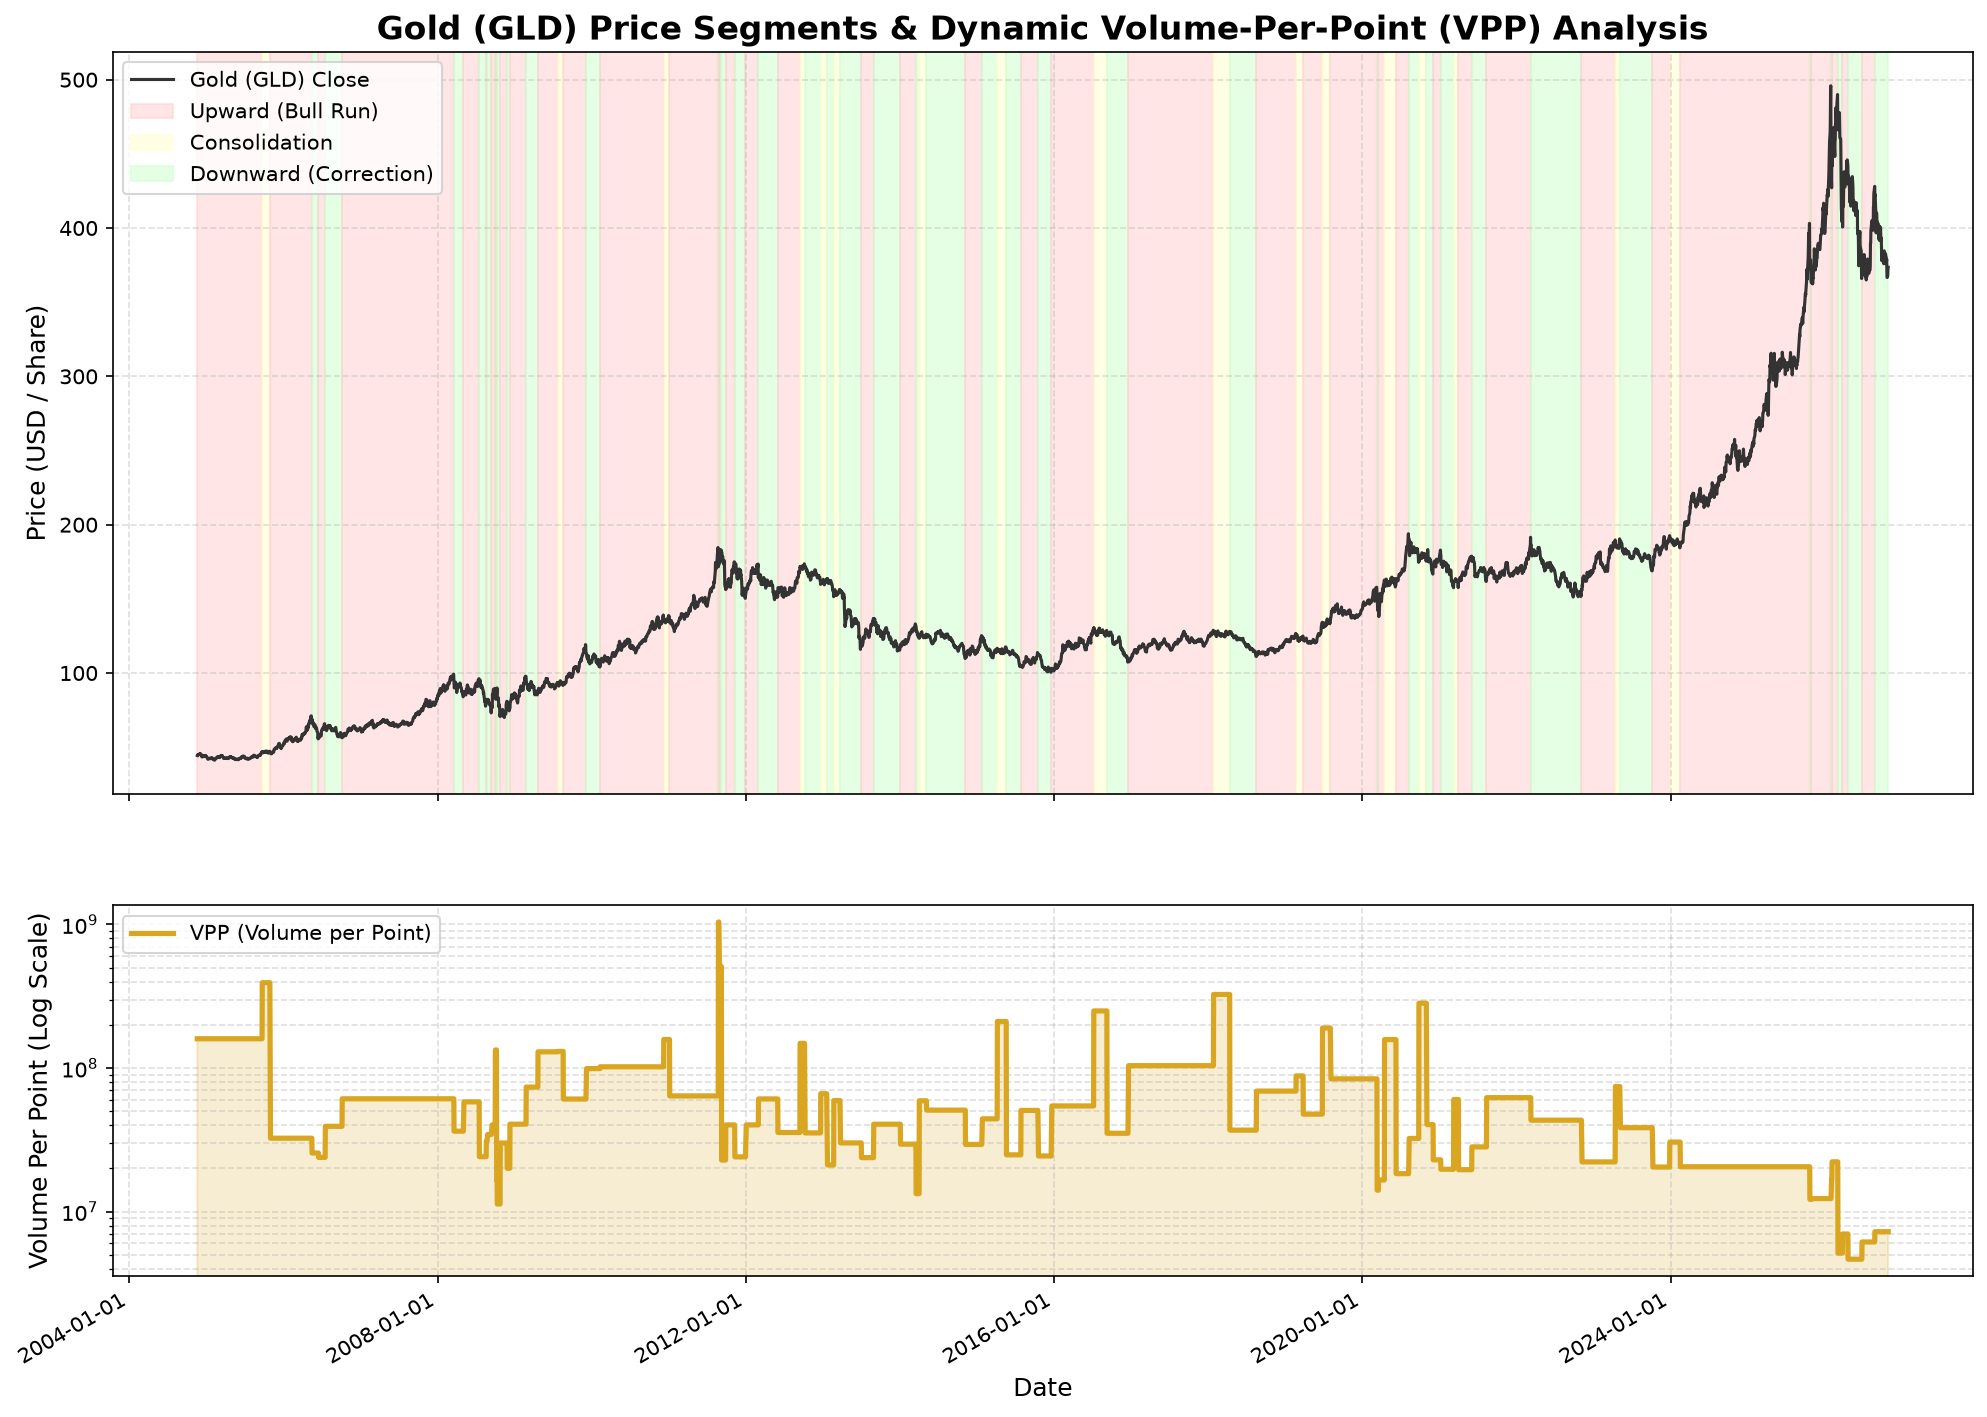
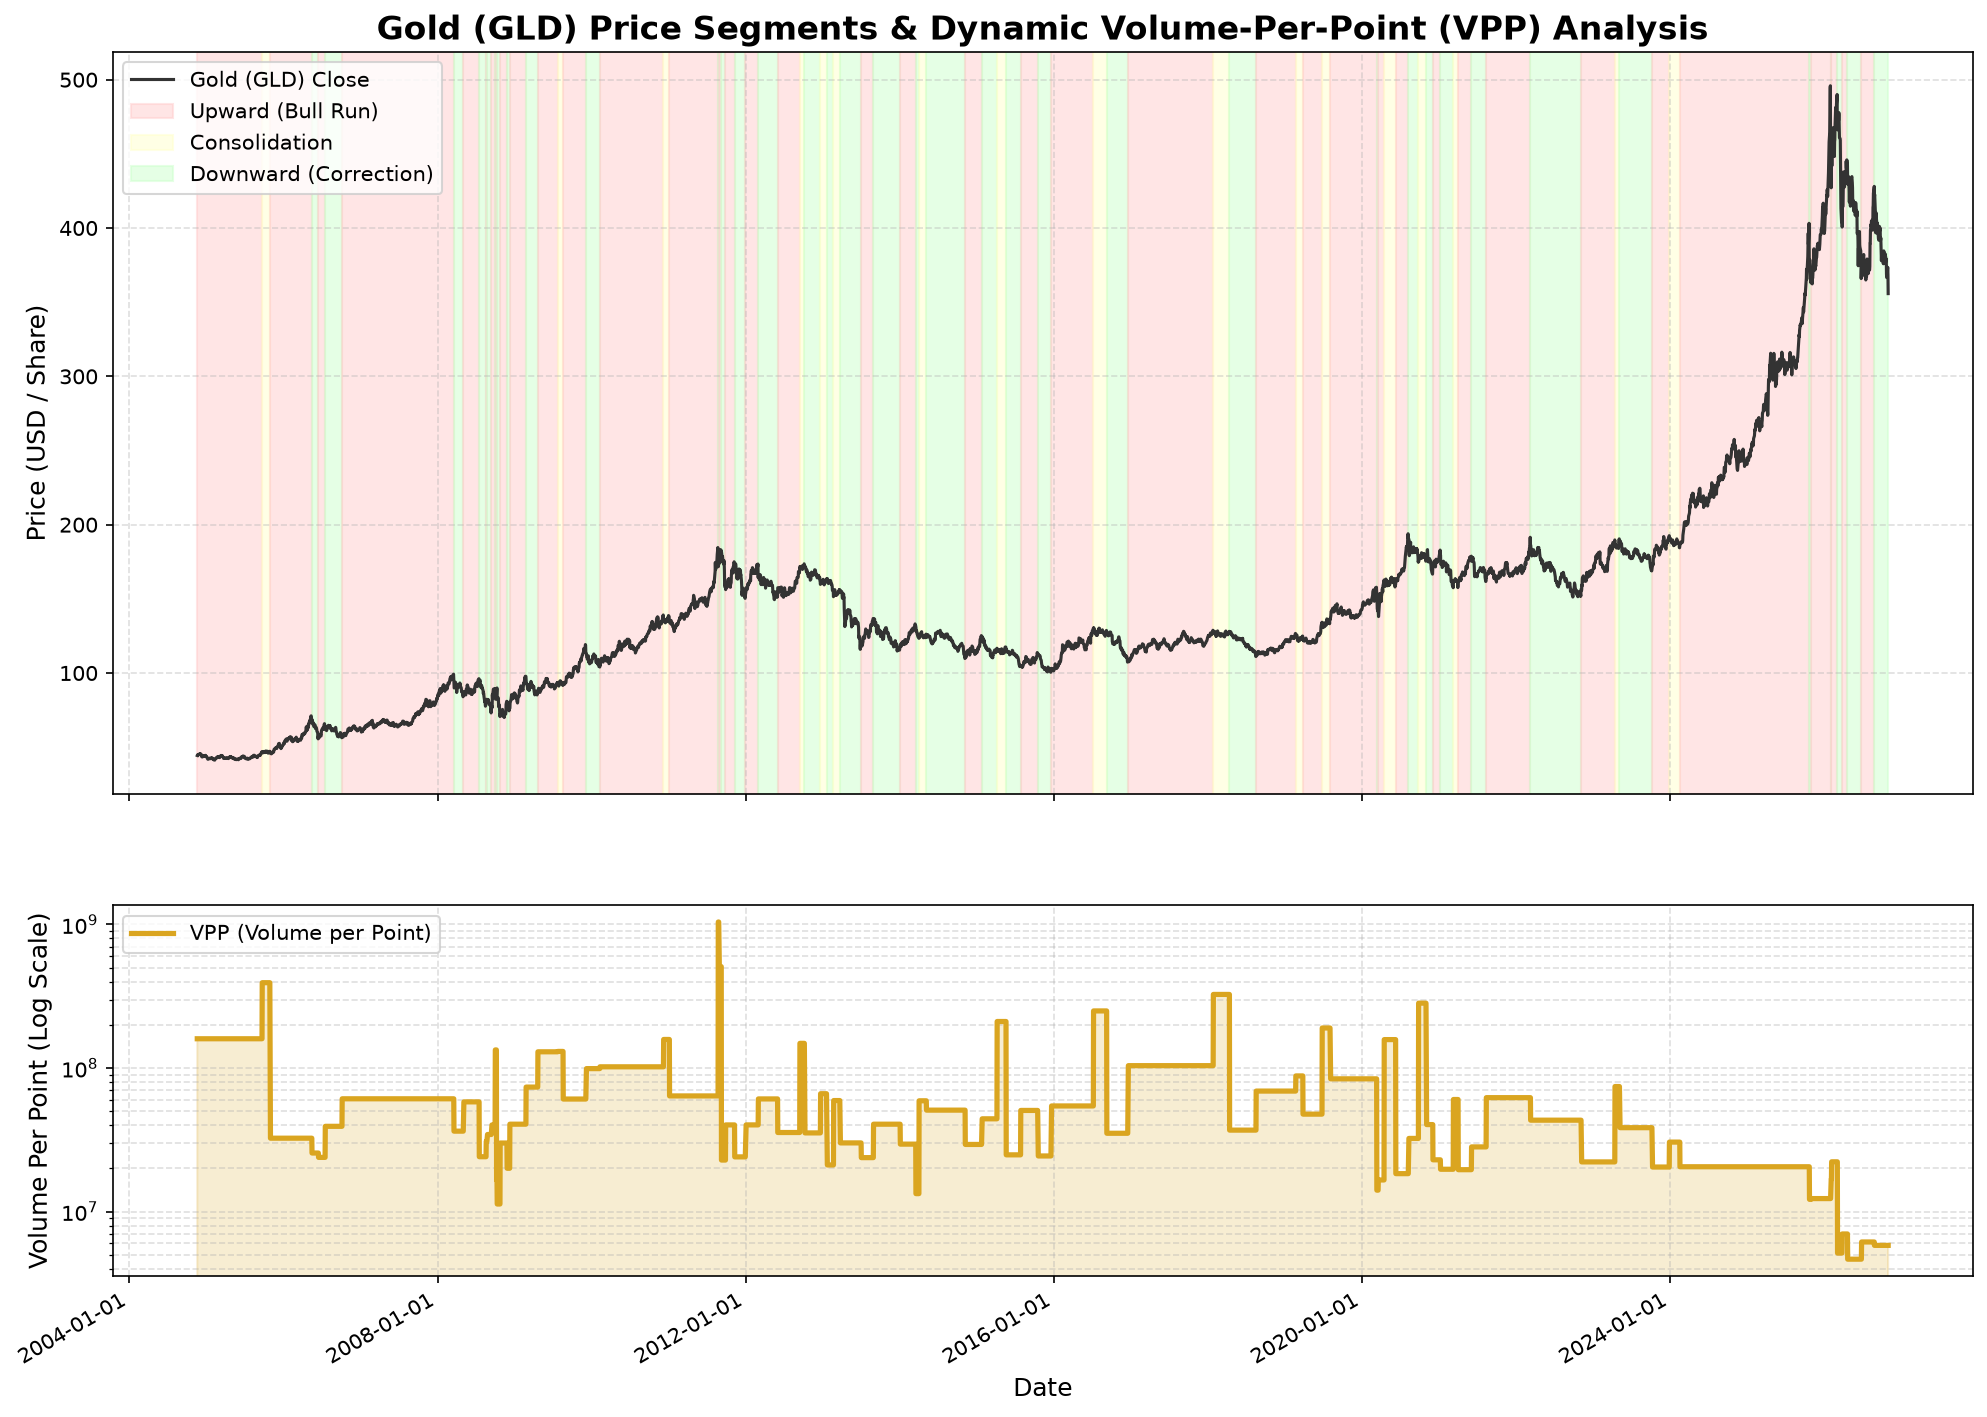
Auto-update gold momentum report & analysis (2026-11-02)

diff --git a/gold.html b/gold.html
@@ -57,7 +57,7 @@
                     <i class="fa-solid fa-coins text-amber-500"></i> 黃金動能效率與波動對稱分析報告
                 </h1>
                 <p class="text-sm text-gray-400 mt-1">
-                    標的：黃金 (GLD) ｜ 模型：雙速量價效率與波動對稱模型 ｜ 更新日期：2026-10-30
+                    標的：黃金 (GLD) ｜ 模型：雙速量價效率與波動對稱模型 ｜ 更新日期：2026-11-02
                 </p>
             </div>
             <div class="flex items-center gap-3">
@@ -116,7 +116,7 @@
 ================================================================================
 【1. 量價效率分析 (Volume-Per-Point, VPP)】
   * 上漲波段: 平均移動 1 點需消耗 56,856,122 股之成交量
-  * 下跌波段: 平均移動 1 點需消耗 61,202,343 股之成交量
+  * 下跌波段: 平均移動 1 點需消耗 61,163,787 股之成交量
   * 盤整波段: 平均移動 1 點需消耗 157,912,081 股之成交量
   * 💡 學術結論：黃金盤整期 VPP 為趨勢期之數倍，籌碼高密集蓄能！
 --------------------------------------------------------------------------------
@@ -128,7 +128,7 @@
 --------------------------------------------------------------------------------
 【2. 波動等幅對稱與統計 (下跌修正波段)】
   * 歷史波段數: 37 次
-  * 平均幅度: -9.92% (中位數: -9.47%)
+  * 平均幅度: -10.03% (中位數: -9.47%)
   * 最大幅度: -22.13% | 最小幅度: 2.10%
   * 平均持續天數: 42.5 天 (中位數: 39 天)
 --------------------------------------------------------------------------------
@@ -137,23 +137,23 @@
   * 當前波段類型: 下跌
   * 波段起始日期: 2026-08-25
   * 波段起始價格: 428.07
-  * 當前價格 (2026-10-28): 373.51
-  * 目前波段累計漲跌: -12.75%
-  * 目前已持續交易日: 44 天
+  * 當前價格 (2026-10-30): 355.78
+  * 目前波段累計漲跌: -16.89%
+  * 目前已持續交易日: 46 天
 
   [短線動能預警 (3% 領先燈號)]
   * 短線波段狀態: 短線拉回下跌
   * 短線轉折日期: 2026-10-16 (基準價 384.88)
-  * 短線累計漲跌: -2.95%
-  * 短線持續天數: 8 天
+  * 短線累計漲跌: -7.56%
+  * 短線持續天數: 10 天
 
   &gt;&gt;&gt; 【量價對稱反彈落點投影預估】 &lt;&lt;&lt;
-  1. 溫和修正式反彈點 (歷史平均 -9.92%): 【385.61】(目前已跌破)
+  1. 溫和修正式反彈點 (歷史平均 -10.03%): 【385.13】(目前已跌破)
   2. 標準型修正反彈點 (歷史中位數 -9.47%): 【387.53】(目前已跌破)
   3. 極端恐慌型修正點 (歷史最大修正 -22.13%): 【333.34】
 
   💡 風控與建倉策略建議：
-     - 當前黃金價格已跌 44 天、累計修正 -12.75%。
+     - 當前黃金價格已跌 46 天、累計修正 -16.89%。
      - 時間與幅度皆已進入超跌/深幅修正區（超越歷史中位數）。接近或低於歷史中位數關卡為左側建倉分批佈局區域。
 ================================================================================
 數據分析報表已匯出至: /data/data/com.termux/files/home/storage/downloads/gold_momentum_backtest.csv
